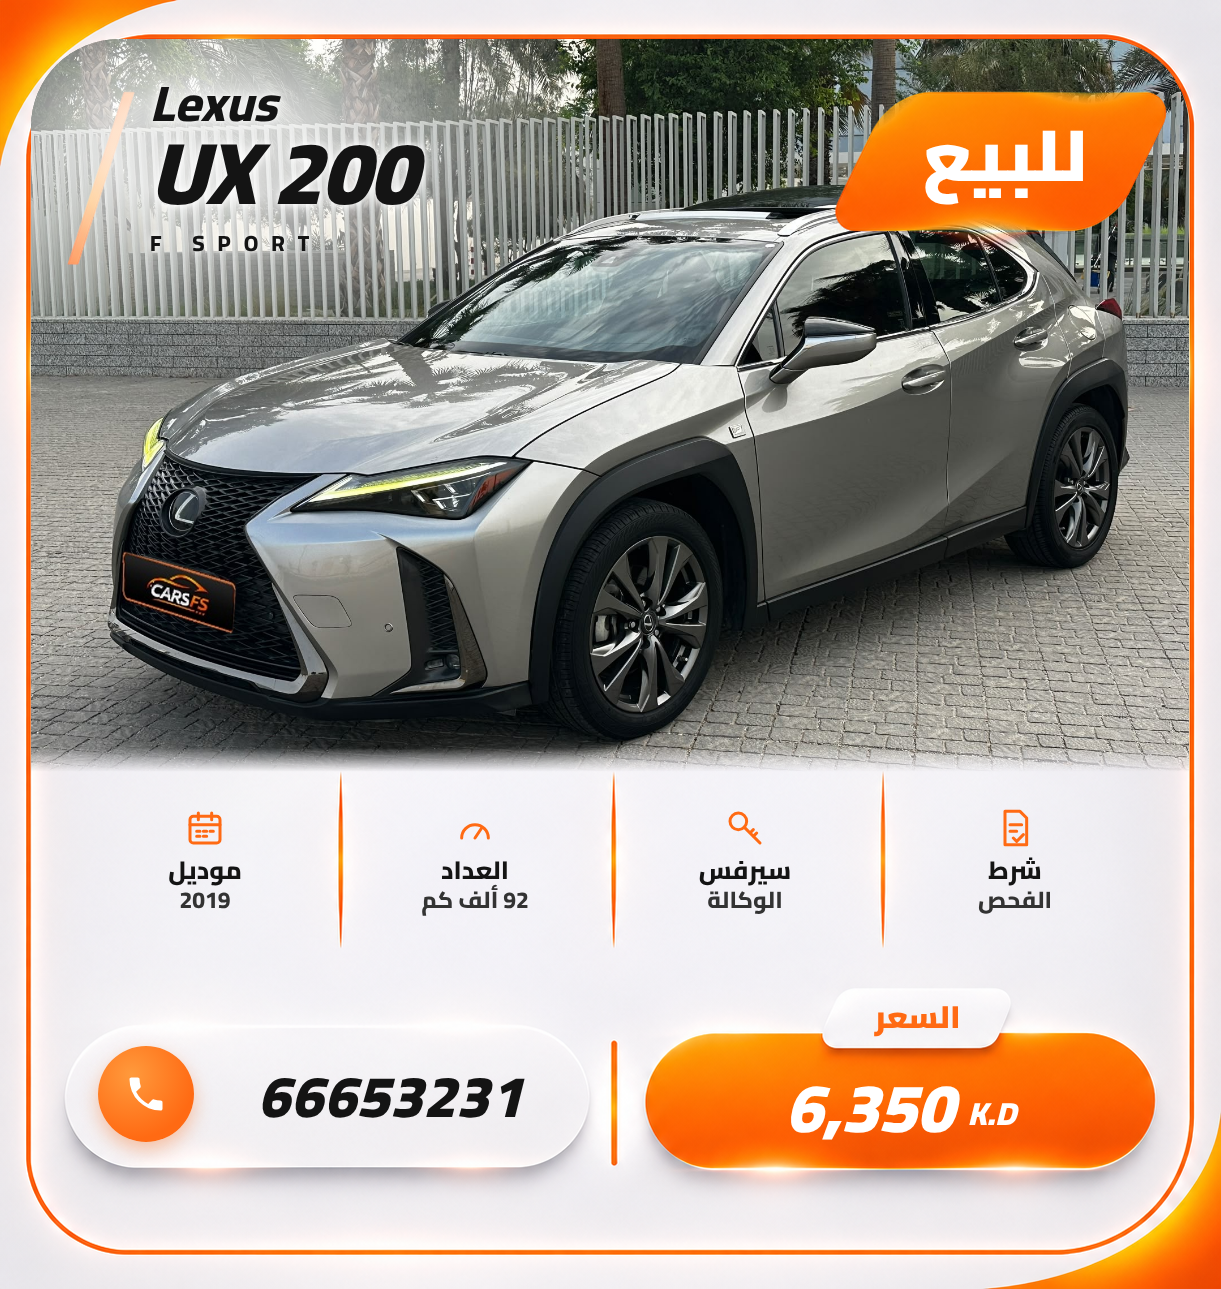
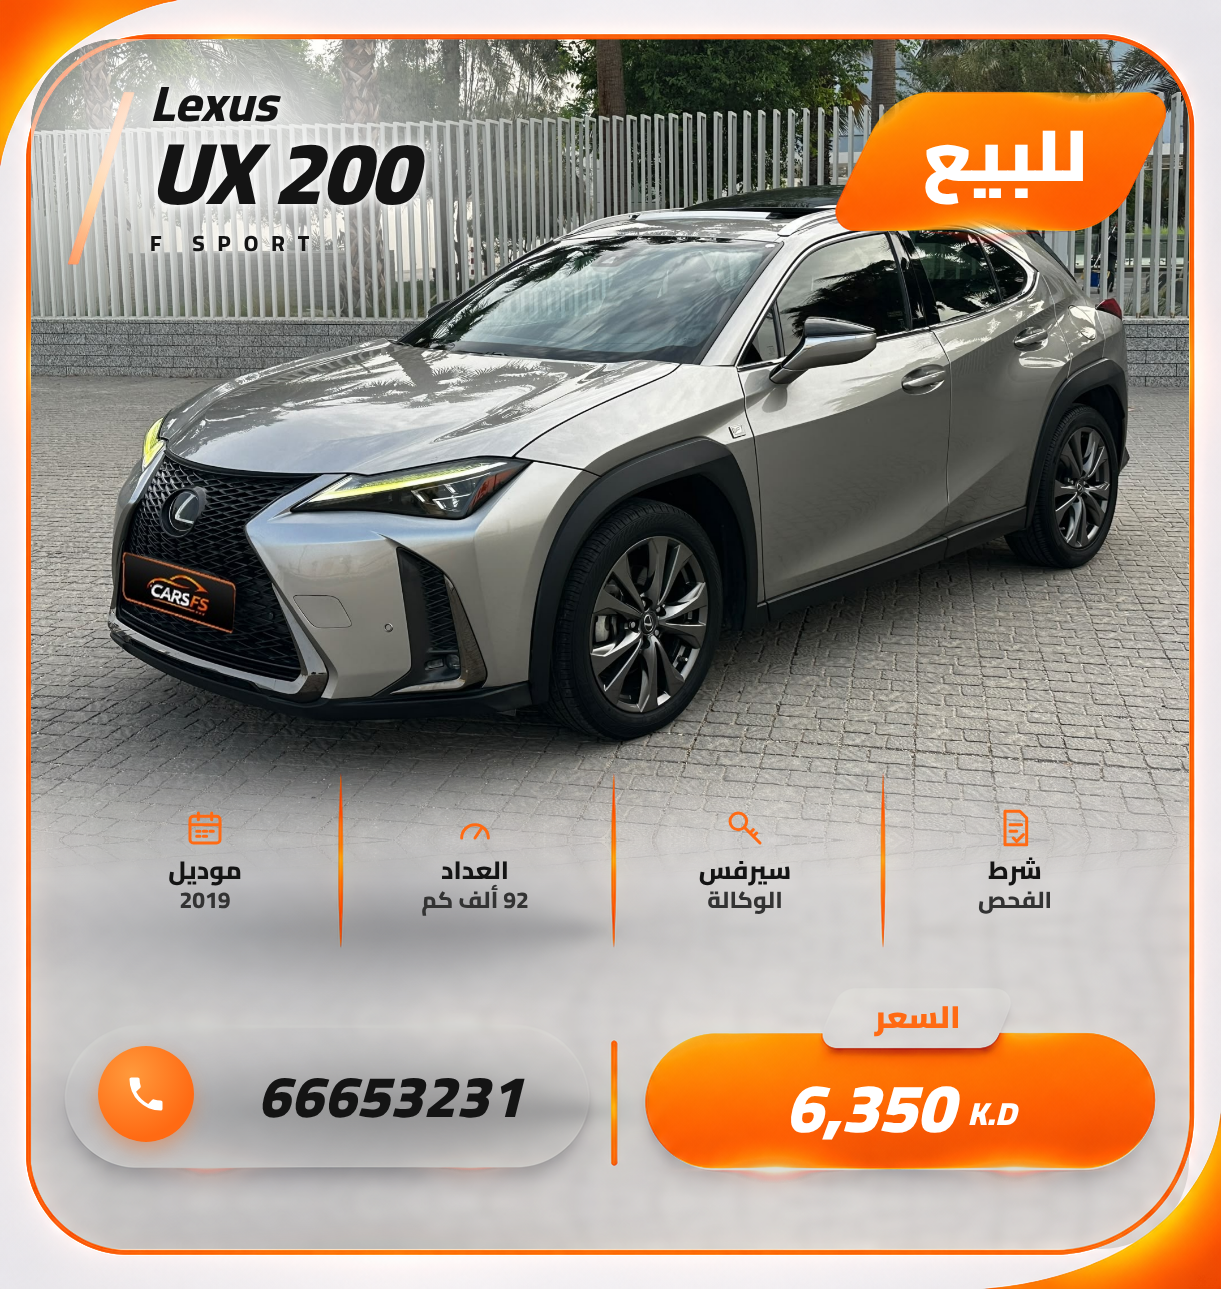
Make the car photo the background of the whole template
The photo's pavement is extended down to the bottom of the frame
(tools/extend_ground.py). The info area sits on a light frosted layer of
the template, with the orange shapes drawn on top.

Claude-Session: https://claude.ai/code/session_01KnexkHxQxKDZgeTo91zvvo

diff --git a/template/post-v3.html b/template/post-v3.html
@@ -15,9 +15,13 @@
   .abs { position: absolute; }
 
   /* photo: full background inside the orange frame, sharp to the tyres, short fade only on the ground below */
-  .clip { position: absolute; inset: 0; clip-path: inset(39px 32px 40px 31px round 88px 88px 0 0); }
-  .clip img { position: absolute; display: block;
-    -webkit-mask-image: linear-gradient(to bottom, #000 var(--fadeA), transparent var(--fadeB)); -webkit-mask-size: 100% 100%; }
+  /* layers: background -> car photo over the whole frame -> frosted template for the info area -> orange shapes -> text */
+  .clip { position: absolute; inset: 0; clip-path: inset(39px 32px 40px 31px round 88px); }
+  .clip img { position: absolute; display: block; }
+  .frost { position: absolute; inset: 0; backdrop-filter: blur(var(--blur, 6px));
+    -webkit-mask-image: linear-gradient(to bottom, transparent var(--frostA), #000 var(--frostB)); }
+  .frost::after { content: ""; position: absolute; inset: 0; background: url(bg-v3.png) 0 0 / 1221px 1289px; opacity: var(--frostOpacity, .78); }
+  .orange { position: absolute; left: 0; top: 0; pointer-events: none; }
 
   .haze { left: 31px; top: 39px; width: 560px; height: 280px; border-top-left-radius: 88px;
     background: radial-gradient(ellipse 70% 80% at 32% 38%, rgba(255,255,255,.8) 25%, rgba(255,255,255,0) 100%); }
@@ -49,9 +53,8 @@
 </style>
 </head>
 <body>
-  <div class="clip"><img id="photo" alt=""></div>
-  <img class="abs" src="v3-badge.png" style="left:825px;top:80px">
-  <img class="abs" src="v3-slash.png" style="left:60px;top:85px">
+  <div class="clip"><img id="photo" alt=""><div class="frost" id="frost"></div></div>
+  <img class="orange" src="v3-orange.png">
   <div class="abs haze"></div>
   <div class="abs title"><div class="brand" data-k="brand"></div><div class="model" data-k="model"></div><div class="trim" data-k="trim"></div></div>
   <div class="abs badge" data-k="badge"></div>
@@ -81,17 +84,19 @@
   <div class="abs price"><span class="num" data-k="price"></span><span class="cur" data-k="currency"></span></div>
 
 <script>
-  // car: { left, width, bottom, tyreY, fadeEnd } — tyre line of the photo (tyreY, 0..1) lands at canvas y = bottom
+  // car: { left, width, bottom, tyreY, frostStart, frostFull } — tyre line of the photo (tyreY, 0..1) lands at canvas y = bottom
   window.fill = async (d) => {
     document.querySelectorAll('[data-k]').forEach(el => el.textContent = d[el.dataset.k] ?? '');
     const img = document.getElementById('photo');
-    img.src = '../' + d.photo;
+    img.src = '../' + d.photo;   // use a photo whose ground was extended with tools/extend_ground.py
     await Promise.all([document.fonts.ready, img.decode()]);
-    const c = d.car, h = c.width * img.naturalHeight / img.naturalWidth, top = c.bottom - c.tyreY * h;
+    const c = d.car, h = c.width * img.naturalHeight / img.naturalWidth, top = c.bottom - c.tyreY * c.width * (c.photoH ?? img.naturalHeight) / img.naturalWidth;
     Object.assign(img.style, { left: c.left + 'px', top: top + 'px', width: c.width + 'px', height: h + 'px' });
-    const rel = y => ((y - top) / h * 100).toFixed(2) + '%';
-    img.style.setProperty('--fadeA', rel(c.bottom + 6));
-    img.style.setProperty('--fadeB', rel(c.fadeEnd ?? 772));
+        // photo covers the whole frame: scale up if needed so it reaches the bottom edge
+    const f = document.getElementById('frost');
+    f.style.setProperty('--frostA', (c.frostStart ?? c.bottom + 8) + 'px');
+    f.style.setProperty('--frostB', (c.frostFull ?? 880) + 'px');
+    if (d.frostOpacity != null) f.style.setProperty('--frostOpacity', d.frostOpacity);
   };
 </script>
 </body>

diff --git a/tools/extend_ground.py b/tools/extend_ground.py
@@ -1,0 +1,14 @@
+"""Extend a car photo's ground downward (mirroring the bottom strip) so it can fill the whole template.
+usage: python3 tools/extend_ground.py in.jpg out.jpg [target_height=2400] [strip=160]"""
+import sys
+from PIL import Image, ImageOps
+src, dst = sys.argv[1], sys.argv[2]
+H = int(sys.argv[3]) if len(sys.argv) > 3 else 2400
+S = int(sys.argv[4]) if len(sys.argv) > 4 else 160
+im = Image.open(src).convert('RGB'); w, h = im.size
+strip = im.crop((0, h - S, w, h)); flip = ImageOps.flip(strip)
+out = Image.new('RGB', (w, max(H, h))); out.paste(im, (0, 0))
+y, k = h, 0
+while y < out.height:
+    out.paste(flip if k % 2 == 0 else strip, (0, y)); y += S; k += 1
+out.save(dst, quality=95)

diff --git a/README.md b/README.md
@@ -37,3 +37,7 @@ Font: Cairo (SIL Open Font License), bundled in `fonts/`.
 - The template is `template/post-v3.html`.
 - Example: `cars/lexus-ux200-v3.json`, rendered with `node render.js cars/lexus-ux200-v3.json`.
 - The car photo fills the frame edge to edge with its full background. Only the ground below the tyres fades out, above the specs.
+- The car photo is the background of the whole frame. First extend the ground in the original photo:
+  `python3 tools/extend_ground.py photos/<car>-original.jpg photos/<car>-full.jpg`
+  Set `photo` in the JSON file to the extended photo, and set `car.photoH` to the original photo's height.
+- `frostOpacity` (0 to 1) sets how light the white layer over the info area is. The default is 0.78, and the Lexus example uses 0.55.
